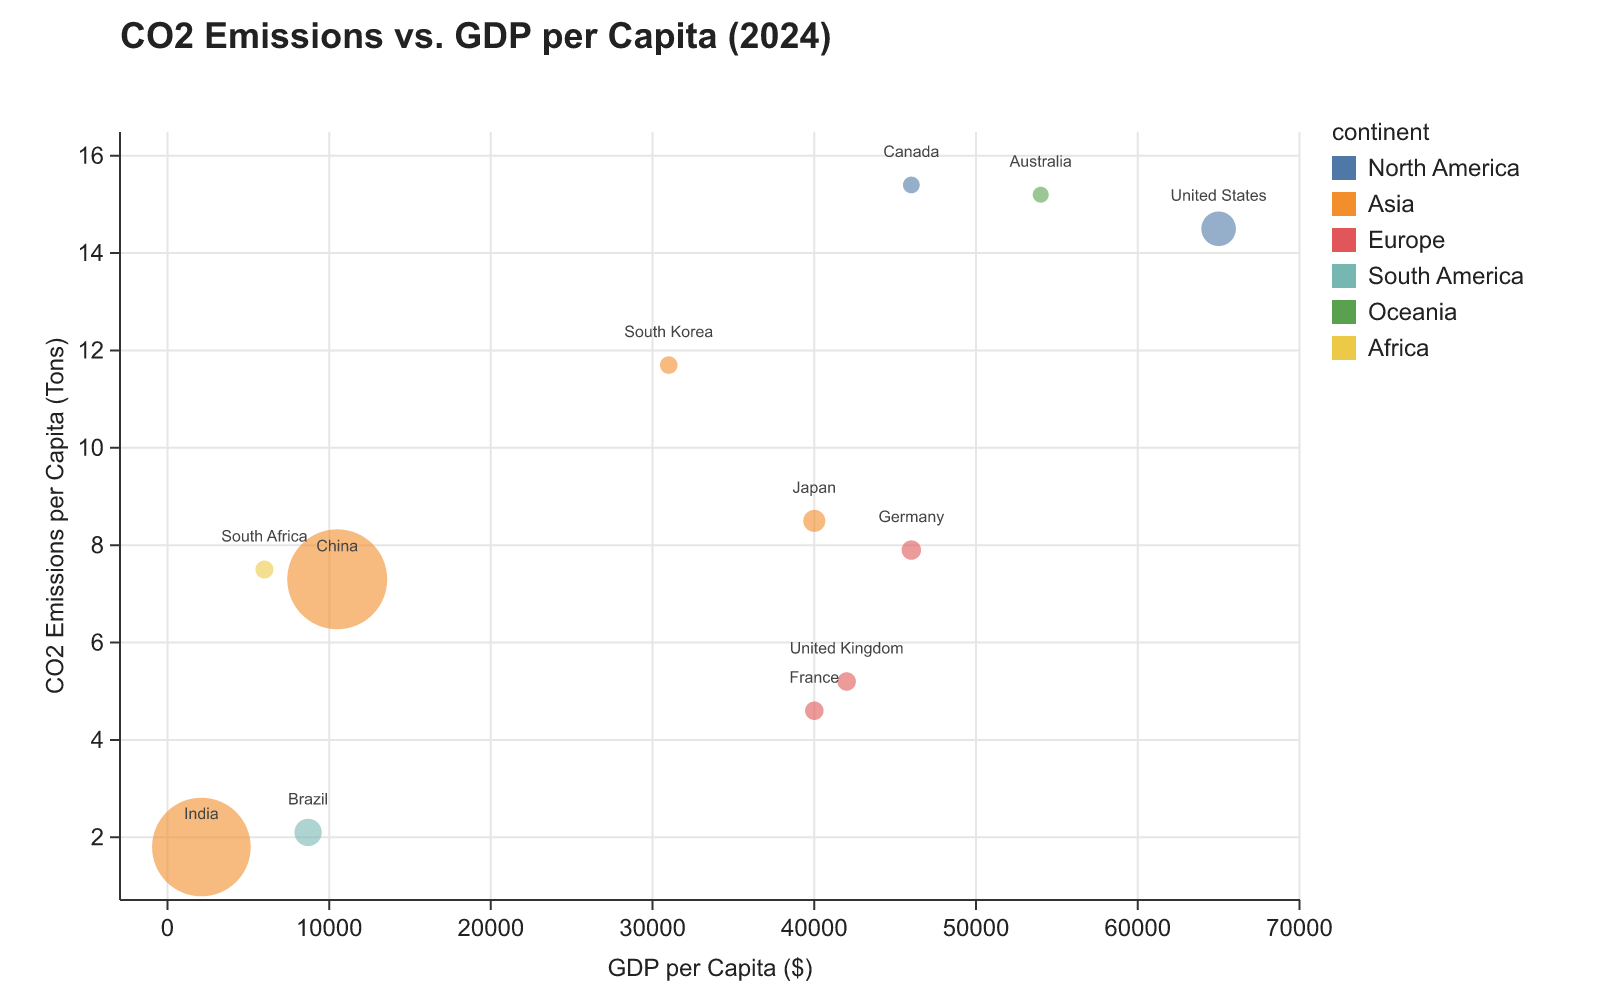
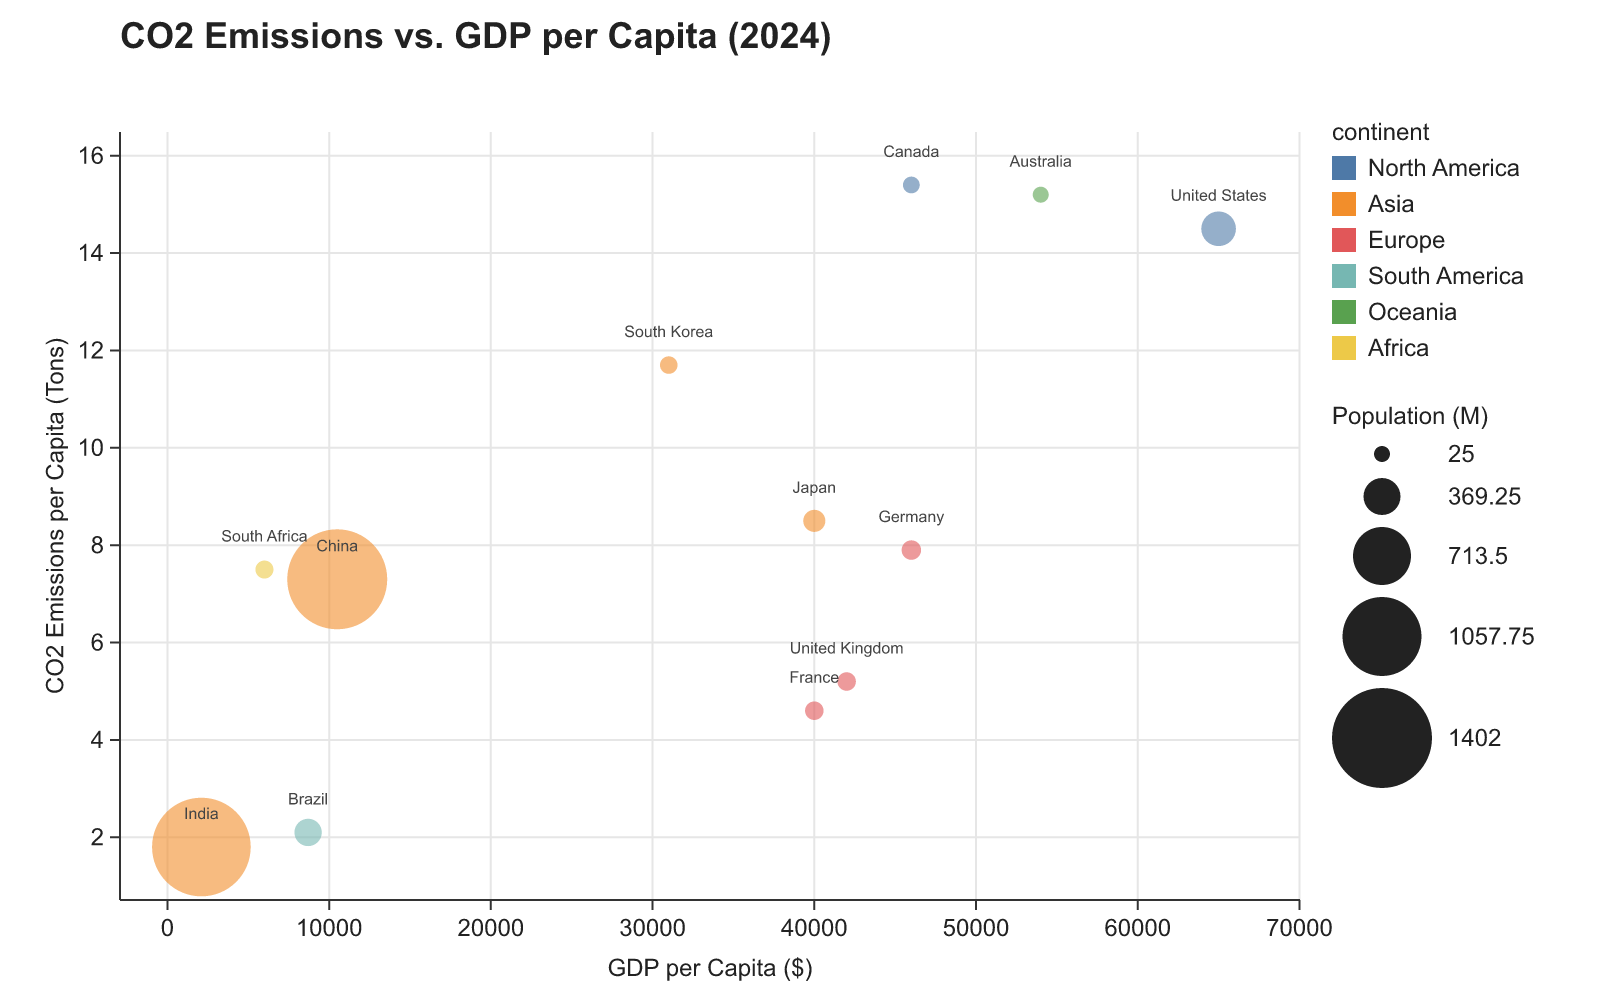
add secondary legends

Changed region(s): [[0.8125, 0.403, 0.9688, 0.806]]

diff --git a/crates/algraf-render/src/guide.rs b/crates/algraf-render/src/guide.rs
@@ -238,9 +238,9 @@ pub fn render_legends(w: &mut SvgWriter, legends: &[Legend], area: Rect, theme: 
     let mut y = area.y + 4.0;
     for legend in legends {
         w.line(&text(area.x, y, "start", &legend.title, theme));
-        y += 18.0;
         match legend.kind {
             LegendKind::Discrete => {
+                y += 18.0;
                 for (index, (label, color)) in legend.entries.iter().enumerate() {
                     // A merged fill+stroke legend draws each swatch with the
                     // fill color and a stroke outline (spec §19.7).
@@ -261,12 +261,87 @@ pub fn render_legends(w: &mut SvgWriter, legends: &[Legend], area: Rect, theme: 
                 }
             }
             LegendKind::Continuous => {
+                y += 18.0;
                 y = render_continuous_legend(w, legend, area.x, y, theme);
             }
+            LegendKind::Width | LegendKind::Radius => {
+                // `render_size_legend` centers each swatch within its own row, so
+                // it needs only a small gap below the title; the row's half-height
+                // supplies the rest. The fixed 18px discrete gap would double up.
+                y += 6.0;
+                y = render_size_legend(w, legend, area.x, y, theme);
+            }
         }
-        y += 8.0;
+        // Separate one legend's content from the next legend's title.
+        y += 16.0;
     }
     w.close_group();
+}
+
+/// Draw a size legend whose swatch is a line of the mapped thickness
+/// ([`LegendKind::Width`]) or a circle of the mapped radius
+/// ([`LegendKind::Radius`]). Swatches share a fixed-width column sized to the
+/// largest entry, so labels never overlap the widest swatch, and each row is
+/// tall enough for its swatch's full vertical extent — the thickest line or the
+/// largest circle's diameter — so swatches never collide vertically (spec
+/// §19.5).
+fn render_size_legend(
+    w: &mut SvgWriter,
+    legend: &Legend,
+    x: f64,
+    mut y: f64,
+    theme: &Theme,
+) -> f64 {
+    const LINE_LEN: f64 = 28.0;
+    const ROW_GAP: f64 = 6.0;
+    const LABEL_PAD: f64 = 8.0;
+    let color = &theme.text_color;
+    let max_mag = legend.sizes.iter().copied().fold(0.0_f64, f64::max);
+    // The x where labels start, reserved past the largest swatch so every label
+    // clears it. A round-capped line overhangs its endpoints by half its
+    // thickness; a circle's right edge sits a full radius past its center.
+    let label_x = match legend.kind {
+        LegendKind::Radius => x + 2.0 * max_mag + LABEL_PAD,
+        _ => x + LINE_LEN + max_mag / 2.0 + LABEL_PAD,
+    };
+    for (index, (label, _)) in legend.entries.iter().enumerate() {
+        let magnitude = legend.sizes.get(index).copied().unwrap_or(0.0);
+        // A line's vertical extent is its thickness; a circle's is its diameter.
+        let extent = match legend.kind {
+            LegendKind::Radius => 2.0 * magnitude,
+            _ => magnitude,
+        };
+        let row_height = (extent + ROW_GAP).max(18.0);
+        let center = y + row_height / 2.0;
+        match legend.kind {
+            LegendKind::Width if magnitude > 0.0 => {
+                w.line(&format!(
+                    "<line x1=\"{}\" y1=\"{}\" x2=\"{}\" y2=\"{}\" stroke=\"{}\" stroke-width=\"{}\" stroke-linecap=\"round\" />",
+                    num(x),
+                    num(center),
+                    num(x + LINE_LEN),
+                    num(center),
+                    escape_attr(color),
+                    num(magnitude),
+                ));
+            }
+            LegendKind::Radius if magnitude > 0.0 => {
+                // Center every circle on a common vertical axis through the
+                // swatch column so the stack reads as concentric sizes.
+                w.line(&format!(
+                    "<circle cx=\"{}\" cy=\"{}\" r=\"{}\" fill=\"{}\" />",
+                    num(x + max_mag),
+                    num(center),
+                    num(magnitude),
+                    escape_attr(color),
+                ));
+            }
+            _ => {}
+        }
+        w.line(&text(label_x, center + 4.0, "start", label, theme));
+        y += row_height;
+    }
+    y
 }
 
 fn render_continuous_legend(

diff --git a/crates/algraf-render/tests/render.rs b/crates/algraf-render/tests/render.rs
@@ -952,10 +952,15 @@ fn test_mapped_strokewidth_emits_per_segment_lines() {
         csv,
     );
     assert!(svg.contains("algraf-geom-path"));
+    // Restrict to the data layer; the strokeWidth size legend also emits
+    // round-capped swatch lines in the separate `algraf-legends` group.
+    let data_layer = svg
+        .split_once("algraf-legends")
+        .map_or(svg.as_str(), |(before, _)| before);
     // Two segments for three points, drawn as individual round-capped lines.
-    assert_eq!(svg.matches("stroke-linecap=\"round\"").count(), 2);
+    assert_eq!(data_layer.matches("stroke-linecap=\"round\"").count(), 2);
     // Widths differ across segments.
-    let widths: Vec<&str> = svg
+    let widths: Vec<&str> = data_layer
         .match_indices("stroke-width=\"")
         .map(|(i, _)| {
             let s = &svg[i + 14..];
@@ -969,6 +974,46 @@ fn test_mapped_strokewidth_emits_per_segment_lines() {
             .len()
             > 1
     );
+}
+
+#[test]
+fn test_mapped_strokewidth_emits_size_legend() {
+    let csv = "x,y,w\n1,1,0\n2,2,50\n3,1,100\n";
+    let svg = render_svg(
+        "Chart(data: \"t.csv\") { Scale(strokeWidth: w, domain: [0, null], range: [0, 20], label: \"Weight\") Space(x * y) { Path(strokeWidth: w) } }",
+        csv,
+    );
+    // The size legend lives in its own group, titled by the scale label, with
+    // a swatch line at the widest tick (range max 20px) and tick labels.
+    let legend = svg.split_once("algraf-legends").unwrap().1;
+    assert!(legend.contains(">Weight</text>"));
+    assert!(legend.contains(">100</text>"));
+    assert!(legend.contains("stroke-width=\"20\""));
+}
+
+#[test]
+fn test_mapped_size_emits_radius_legend() {
+    let csv = "x,y,m\n1,1,0\n2,2,5\n3,1,10\n";
+    let svg = render_svg(
+        "Chart(data: \"t.csv\") { Scale(size: m, range: [0, 12]) Space(x * y) { Point(size: m) } }",
+        csv,
+    );
+    // A `size` mapping yields circle swatches sized by the mapped radius.
+    let legend = svg.split_once("algraf-legends").unwrap().1;
+    assert!(legend.contains(">m</text>"));
+    assert!(legend.contains("<circle"));
+    assert!(legend.contains("r=\"12\""));
+}
+
+#[test]
+fn test_constant_strokewidth_has_no_size_legend() {
+    let csv = "x,y\n1,1\n2,2\n";
+    let svg = render_svg(
+        "Chart(data: \"t.csv\") { Space(x * y) { Path(strokeWidth: 3) } }",
+        csv,
+    );
+    // A literal setting is not a data mapping, so no legend is generated.
+    assert!(!svg.contains("algraf-legends"));
 }
 
 #[test]

diff --git a/crates/algraf-render/src/render/legend.rs b/crates/algraf-render/src/render/legend.rs
@@ -5,17 +5,20 @@ use algraf_semantics::{
     ChartIr, FrameIr, GeometryIr, GeometryKind, ScaleIr, ScaleTargetIr, SettingValue,
 };
 
-use crate::aes::{color_spec, ColorSpec, Legend, LegendKind};
+use crate::aes::{color_spec, number_spec, ColorSpec, Legend, LegendKind};
+use crate::geom::{DEFAULT_SIZE_RANGE, DEFAULT_STROKE_WIDTH_RANGE};
 use crate::stats;
+use crate::theme::Theme;
 
 use super::common::merged_scales;
 use super::derived::active_table;
 
-/// Collect deduplicated fill/stroke legends across all spaces (spec §19.5).
+/// Collect deduplicated fill/stroke/size legends across all spaces (spec §19.5).
 pub(super) fn collect_legends(
     ir: &ChartIr,
     primary: &dyn Table,
     derived: &HashMap<String, DataFrame>,
+    theme: &Theme,
 ) -> Vec<Legend> {
     // Candidate legends paired with the aesthetic that produced them, so a
     // fill legend and a stroke legend over the same column can be merged below.
@@ -62,6 +65,45 @@ pub(super) fn collect_legends(
                         .any(|(a, l)| *a == "fill" && l.title == legend.title)
                     {
                         candidates.push(("fill", legend));
+                    }
+                }
+            }
+            // Size legends for numeric aesthetics: `strokeWidth` (a line of the
+            // mapped thickness) and `size` (a circle of the mapped radius). Each
+            // is only produced when the aesthetic maps a column (spec §19.5).
+            for (aesthetic, kind, default_range, constant_default) in [
+                (
+                    "strokeWidth",
+                    LegendKind::Width,
+                    DEFAULT_STROKE_WIDTH_RANGE,
+                    theme.line_width,
+                ),
+                (
+                    "size",
+                    LegendKind::Radius,
+                    DEFAULT_SIZE_RANGE,
+                    theme.point_size,
+                ),
+            ] {
+                let Some(mapping) = geo.mappings.iter().find(|m| m.aesthetic == aesthetic) else {
+                    continue;
+                };
+                let spec = number_spec(
+                    geo,
+                    aesthetic,
+                    table,
+                    &scales,
+                    default_range,
+                    constant_default,
+                );
+                let title = scale_label(&scales, aesthetic)
+                    .unwrap_or_else(|| crate::svg::display_label(&mapping.column.name));
+                if let Some(legend) = spec.legend(&title, kind) {
+                    if !candidates
+                        .iter()
+                        .any(|(a, l)| *a == aesthetic && l.title == legend.title)
+                    {
+                        candidates.push((aesthetic, legend));
                     }
                 }
             }

diff --git a/crates/algraf-render/src/aes.rs b/crates/algraf-render/src/aes.rs
@@ -102,6 +102,7 @@ impl ColorSpec {
                     })
                     .collect(),
                 stroke_entries: Vec::new(),
+                sizes: Vec::new(),
             }),
             ColorSpec::Gradient {
                 min, max, stops, ..
@@ -111,6 +112,7 @@ impl ColorSpec {
                     title: title.to_string(),
                     kind: LegendKind::Continuous,
                     stroke_entries: Vec::new(),
+                    sizes: Vec::new(),
                     entries: ticks
                         .into_iter()
                         .map(|value| {
@@ -148,12 +150,17 @@ fn gradient_legend_ticks(min: f64, max: f64) -> Vec<f64> {
 /// non-empty, is aligned with `entries` and supplies a per-entry stroke color
 /// for the swatch; it is populated when a `fill` and `stroke` legend over the
 /// same categorical column are merged into one (spec §19.7).
+///
+/// `sizes`, when non-empty, is aligned with `entries` and holds the resolved
+/// magnitude (line thickness or circle radius, in px) for each swatch of a
+/// [`LegendKind::Width`] or [`LegendKind::Radius`] size legend.
 #[derive(Debug, Clone, PartialEq)]
 pub struct Legend {
     pub title: String,
     pub kind: LegendKind,
     pub entries: Vec<(String, String)>,
     pub stroke_entries: Vec<String>,
+    pub sizes: Vec<f64>,
 }
 
 /// How a legend's entries should be rendered.
@@ -161,6 +168,10 @@ pub struct Legend {
 pub enum LegendKind {
     Discrete,
     Continuous,
+    /// A `strokeWidth` size legend: each swatch is a line of the mapped thickness.
+    Width,
+    /// A `size` size legend: each swatch is a circle of the mapped radius.
+    Radius,
 }
 
 /// Build a color specification for an aesthetic (`"fill"` or `"stroke"`).
@@ -287,6 +298,34 @@ impl NumberSpec {
                 None => default,
             },
         }
+    }
+
+    /// A size legend for this aesthetic, if it is a data mapping (spec §19.5).
+    /// `kind` selects the swatch shape ([`LegendKind::Width`] for a line of the
+    /// mapped thickness, [`LegendKind::Radius`] for a circle of the mapped
+    /// radius). Constant settings produce no legend.
+    pub fn legend(&self, title: &str, kind: LegendKind) -> Option<Legend> {
+        let NumberSpec::Scaled { domain, range, .. } = self else {
+            return None;
+        };
+        let ticks = gradient_legend_ticks(domain.0, domain.1);
+        if ticks.is_empty() {
+            return None;
+        }
+        let sizes = ticks
+            .iter()
+            .map(|value| scale_linear(*value, *domain, *range))
+            .collect();
+        Some(Legend {
+            title: title.to_string(),
+            kind,
+            entries: ticks
+                .into_iter()
+                .map(|value| (num(value), String::new()))
+                .collect(),
+            stroke_entries: Vec::new(),
+            sizes,
+        })
     }
 }
 

diff --git a/crates/algraf-render/src/geom/common.rs b/crates/algraf-render/src/geom/common.rs
@@ -9,9 +9,9 @@ use crate::svg::{escape_attr, num, SvgWriter};
 pub(super) const DEFAULT_FILL: &str = "#4E79A7";
 pub(super) const DEFAULT_STROKE: &str = "#333333";
 /// Default output range (px) for a mapped `strokeWidth` scale (spec §16.8).
-pub(super) const DEFAULT_STROKE_WIDTH_RANGE: (f64, f64) = (0.5, 4.0);
+pub(crate) const DEFAULT_STROKE_WIDTH_RANGE: (f64, f64) = (0.5, 4.0);
 /// Default output range (radius px) for a mapped `size` scale (spec §16.8).
-pub(super) const DEFAULT_SIZE_RANGE: (f64, f64) = (2.0, 8.0);
+pub(crate) const DEFAULT_SIZE_RANGE: (f64, f64) = (2.0, 8.0);
 
 pub(super) fn row_category(spec: &ColorSpec, table: &dyn Table, row: usize) -> Option<String> {
     match spec {

diff --git a/crates/algraf-render/src/geom/mod.rs b/crates/algraf-render/src/geom/mod.rs
@@ -10,6 +10,8 @@ mod point;
 mod rect_tile;
 mod text;
 
+pub(crate) use common::{DEFAULT_SIZE_RANGE, DEFAULT_STROKE_WIDTH_RANGE};
+
 use algraf_core::{codes, Diagnostic};
 use algraf_data::Table;
 use algraf_semantics::{GeometryIr, GeometryKind, ScaleIr};

diff --git a/crates/algraf-render/src/render/panels.rs b/crates/algraf-render/src/render/panels.rs
@@ -74,7 +74,7 @@ pub(super) fn build_render_plan<'t>(
         0.0,
         margins,
     );
-    let legends = collect_legends(ir, primary, derived);
+    let legends = collect_legends(ir, primary, derived, theme);
     let left_extra = if has_axes {
         y_label_left_extra(ir, primary, derived, &provisional, theme)
     } else {

diff --git a/docs/V0_15_PLAN.md b/docs/V0_15_PLAN.md
@@ -196,6 +196,17 @@ Status: Planned.
 Add focused snapshots or integration tests for diagnostic ordering across parse,
 load, semantic, data-warning, and render-warning phases.
 
+### Size legend generation
+
+Status: Done.
+
+Reconcile a long-standing drift: spec §19.5 described a size legend for `size`
+and `strokeWidth` mappings, but the renderer only emitted color (`fill`/`stroke`)
+legends. Promoted §19.5 to a `MUST` and implemented size-legend collection and
+rendering (line-thickness swatches for `strokeWidth`, radius swatches for
+`size`). Surfaced by the `minard` example's `survivors → strokeWidth` scale,
+which now carries its own "Troops" legend.
+
 ## Explicitly Deferred Past v0.15.0
 
 - New diagnostic codes or rich data-file spans unless promoted deliberately.

diff --git a/docs/ALGRAF_SPEC.md b/docs/ALGRAF_SPEC.md
@@ -5601,7 +5601,13 @@ Fill mapping creates fill legend.
 
 Stroke mapping creates stroke legend.
 
-Size mapping creates size legend.
+A `size` or `strokeWidth` mapping MUST create a size legend. The legend title
+follows the same rules as color legends — the scale's `label:` when declared,
+otherwise the mapped column's display name (see §16.13). Its entries are five
+evenly spaced ticks across the trained domain, each drawn as a swatch sized by
+the scale's output: a `strokeWidth` legend draws a line of the mapped thickness,
+and a `size` legend draws a circle of the mapped radius. A swatch whose mapped
+magnitude is zero draws no mark, only its tick label.
 
 Shape mapping creates shape legend.
 

diff --git a/README.md b/README.md
@@ -1165,8 +1165,10 @@ Napoleon's 1812 Russian campaign. A chart-scoped `Table` loads a second CSV of
 city labels onto the same long/lat space as the troop path. The troop layer is a
 `Path` drawn in data order, its width encoding the surviving troop count and its
 color split between advance and retreat with two hand-picked colors and renamed
-legend entries. Axis titles are suppressed with `label: null`, since raw
-longitude and latitude need no heading.
+legend entries. The two mapped aesthetics produce two legends: a "Direction"
+swatch legend for the stroke colors and a "Troops" size legend whose swatch lines
+thicken with the surviving-troop count. Axis titles are suppressed with
+`label: null`, since raw longitude and latitude need no heading.
 
 ```algraf
 Chart(